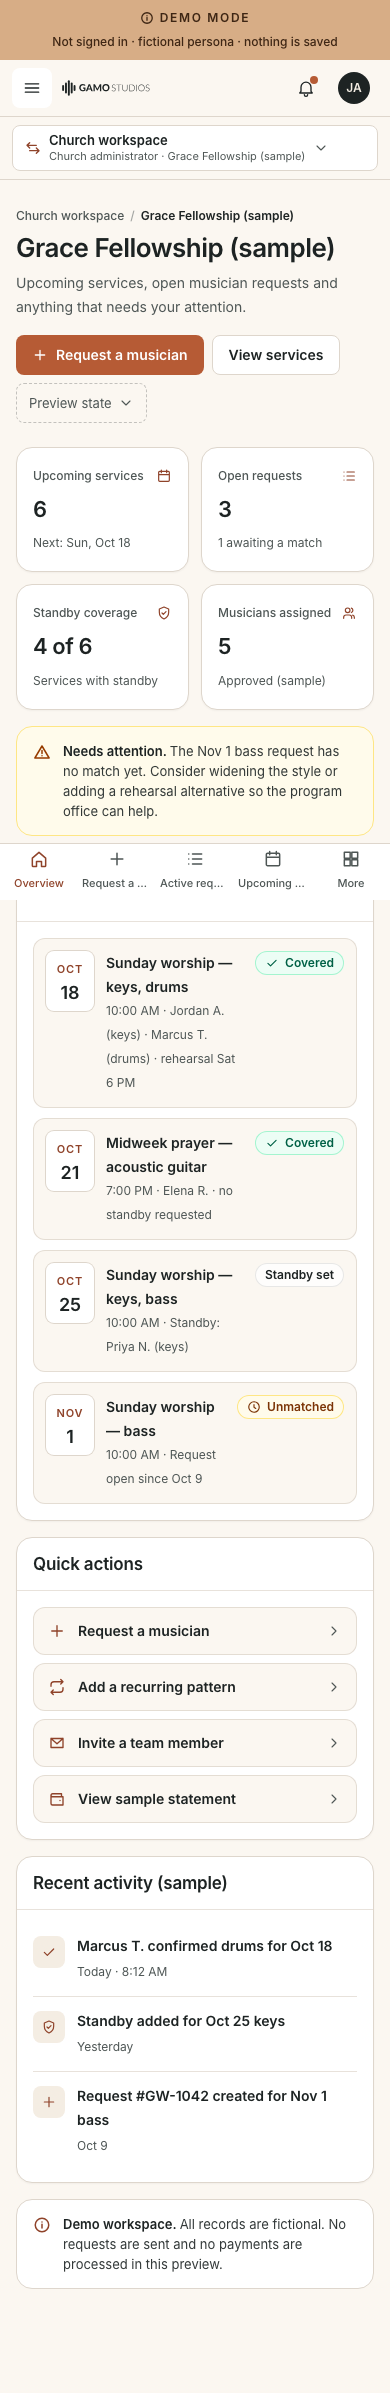
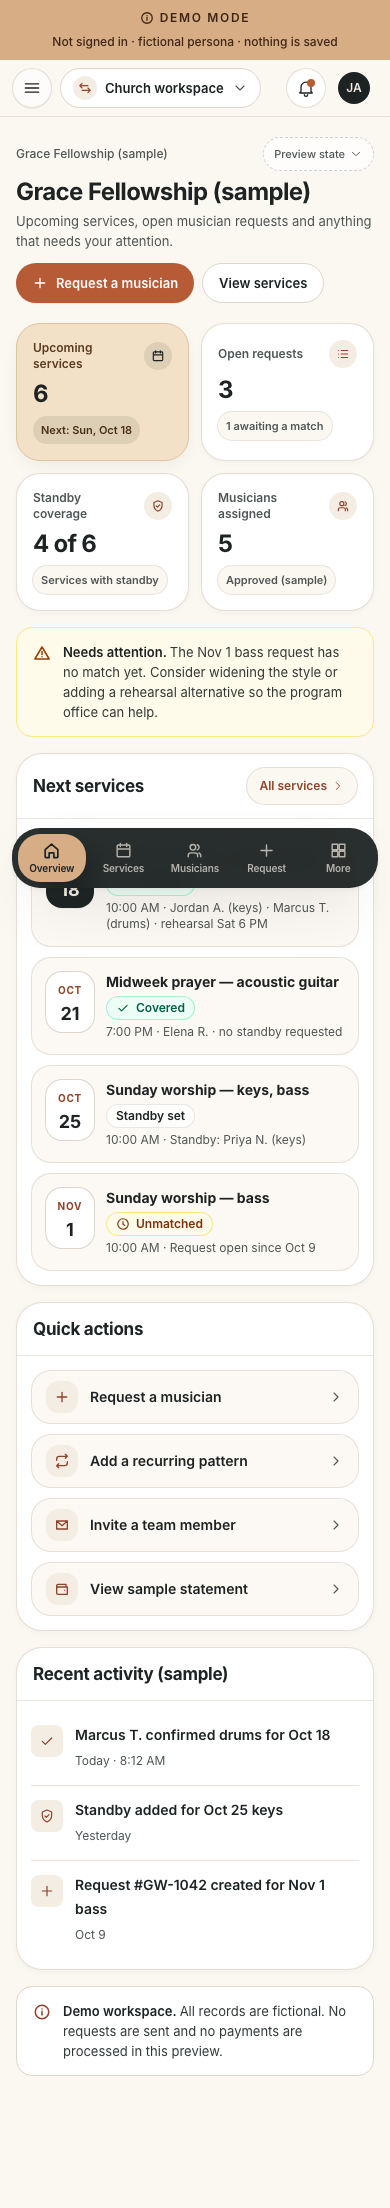
Redesign mobile workspace shell and assigned musicians cards

diff --git a/apps/worship/src/data/workspaces/church.ts b/apps/worship/src/data/workspaces/church.ts
@@ -21,15 +21,15 @@ export const churchWorkspace: Workspace = {
   permission: 'Admin · requests, team & records',
   nav: [
     { items: [
-      { slug: '', label: 'Overview', icon: 'home' },
-      { slug: 'request', label: 'Request a musician', icon: 'plus' },
-      { slug: 'requests', label: 'Active requests', icon: 'list', badge: '3' },
+      { slug: '', label: 'Overview', shortLabel: 'Overview', icon: 'home' },
+      { slug: 'services', label: 'Upcoming services', shortLabel: 'Services', icon: 'calendar' },
+      { slug: 'musicians', label: 'Assigned musicians', shortLabel: 'Musicians', icon: 'users' },
+      { slug: 'request', label: 'Request a musician', shortLabel: 'Request', icon: 'plus' },
     ] },
-    { label: 'Services', items: [
-      { slug: 'services', label: 'Upcoming services', icon: 'calendar' },
-      { slug: 'musicians', label: 'Assigned musicians', icon: 'users' },
-      { slug: 'standby', label: 'Standby coverage', icon: 'shield' },
-      { slug: 'recurring', label: 'Recurring scheduling', icon: 'repeat' },
+    { label: 'Scheduling & Coverage', items: [
+      { slug: 'requests', label: 'Active requests', shortLabel: 'Requests', icon: 'list', badge: '3' },
+      { slug: 'standby', label: 'Standby coverage', shortLabel: 'Standby', icon: 'shield' },
+      { slug: 'recurring', label: 'Recurring scheduling', shortLabel: 'Recurring', icon: 'repeat' },
     ] },
     { label: 'Records', items: [
       { slug: 'history', label: 'Request history', icon: 'clipboard' },
@@ -141,8 +141,15 @@ export const churchWorkspace: Workspace = {
       aliases: ['roster'],
       title: 'Assigned musicians',
       description: 'Musicians assigned to your upcoming services. Approval reflects the program office review (sample).',
+      actions: [{ label: 'Request a musician', href: `${P}/request`, icon: 'plus' }, { label: 'Standby coverage', href: `${P}/standby`, variant: 'secondary' }],
       blocks: [
-        { type: 'cards', span: 3, items: [
+        { type: 'stats', items: [
+          { label: 'Assigned roster', value: '5', hint: 'Approved (sample)', icon: 'users' },
+          { label: 'Awaiting reply', value: '1', hint: 'Oct 25 bass', icon: 'clock' },
+          { label: 'Next service', value: 'Oct 18', hint: 'Keys & drums set', icon: 'calendar' },
+          { label: 'Standby ready', value: '4 of 6', hint: 'Services covered', icon: 'shield' },
+        ] },
+        { type: 'cards', span: 3, title: 'Upcoming roster', action: { label: 'All services', href: `${P}/services` }, items: [
           { title: 'Jordan A. (sample)', meta: 'Keys · vocals', body: 'Oct 18 primary · Nov 8 primary', badge: b('Approved (sample)', 'sample'), icon: 'piano' },
           { title: 'Mateo S. (sample)', meta: 'Keys / piano', body: 'Oct 25 primary', badge: b('Approved (sample)', 'sample'), icon: 'piano' },
           { title: 'Marcus T. (sample)', meta: 'Drums', body: 'Oct 18 primary', badge: b('Approved (sample)', 'sample'), icon: 'drums' },

diff --git a/packages/ui/src/lib/dashboard.ts b/packages/ui/src/lib/dashboard.ts
@@ -59,8 +59,28 @@ export interface DashScreen {
   aliases?: string[];
 }
 
-export interface NavItem { slug: string; label: string; icon: IconName; badge?: string }
+export interface NavItem { slug: string; label: string; shortLabel?: string; icon: IconName; badge?: string }
 export interface NavGroup { label?: string; items: NavItem[] }
+
+export function shortNavLabel(item: Pick<NavItem, 'label' | 'shortLabel'>): string {
+  if (item.shortLabel) return item.shortLabel;
+  const map: Record<string, string> = {
+    'Overview': 'Overview',
+    'Request a musician': 'Request',
+    'Active requests': 'Requests',
+    'Upcoming services': 'Services',
+    'Assigned musicians': 'Musicians',
+    'Standby coverage': 'Standby',
+    'Recurring scheduling': 'Recurring',
+    'Open opportunities': 'Openings',
+    'My schedule': 'Schedule',
+    'Service details': 'Service',
+    'Availability': 'Dates',
+  };
+  if (map[item.label]) return map[item.label];
+  const words = item.label.split(/\s+/);
+  return words.length > 1 && words[0].length <= 3 ? words[1] : words[0];
+}
 
 export interface Workspace {
   id: string;

diff --git a/docs/BUILD_LOG.md b/docs/BUILD_LOG.md
@@ -421,3 +421,12 @@
 - Owner requested push and deployment. Pushed `main` through `691715b` to `origin/main`, then ran `make deploy-web deploy-worship deploy-academy deploy-live deploy-production` successfully. Production builds used the existing configured domains and resource bindings. No migrations, secret changes or Admin deployment.
 - Cloudflare versions: web `5d980dc6-d036-455d-98e0-5ca0969532d8`; Worship `b8cde1b8-7a8a-463f-8248-f2e48faae03a`; Academy `3211b3f5-71d7-4632-b1bb-ac95e8b0c5c5`; Live `b06e06ba-cfb6-4c9b-a6ef-1ae5d2c18733`; Production `b543804f-7578-402a-990e-9e6a469eb06c`.
 - Read-only live HTTP checks returned 200 for apex, www, Worship, Academy, Live homepage and `/promote`, and Production. Confirmed corrected hero-container markup on apex/www and image-first markup on affected program landing pages. Local browser evidence is recorded above; this deployment does not certify outstanding backend readiness gates.
+
+## 2026-10-13 — Mobile workspace & Assigned musicians redesign
+
+- Redesigned mobile workspace shell (`packages/ui/src/components/dashboard/DashboardShell.astro`, `WorkspaceSwitcher.astro`, `DashPageHeader.astro`) and block cards (`StatGrid.astro`, `CardGrid.astro`, `Panel.astro`, `Agenda.astro`, `QuickActions.astro`, `StatusPill.astro`) for effortless mobile scanning:
+  - Consolidated the sticky mobile header into a single row with a compact pill `WorkspaceSwitcher` (eliminating the stacked second header bar on mobile).
+  - Replaced the full-width bottom tab bar (which truncated long labels) with a floating dark charcoal pill dock (`rounded-[28px]`) using concise 1-word labels (`shortNavLabel`) and a highlighted active pill.
+  - Promoted `Assigned musicians` (`/church/musicians`) to the primary 4-item mobile dock in `apps/worship/src/data/workspaces/church.ts` and added at-a-glance coverage summary cards above compact 2-line horizontal musician row cards on mobile.
+- Verification: `DASHBOARD_URL=http://127.0.0.1:4322 node scripts/verify-dashboard-navigation.mjs` passed all 10 viewport/route checks (`390`, `768`, `1024`, `1440`, `1920` across `/church` and `/musician`) with zero horizontal overflow and zero console/page errors; `pnpm test` passed all 39 tests.
+- Evidence: `docs/screenshots/dashboard-navigation/church-musicians-390-viewport.png`, `docs/screenshots/dashboard-navigation/church-musicians-390-full.png`, `docs/screenshots/dashboard-navigation/church-overview-390-full.png`, `docs/screenshots/dashboard-navigation/church-musicians-1440.png`.
